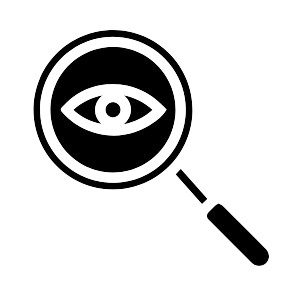
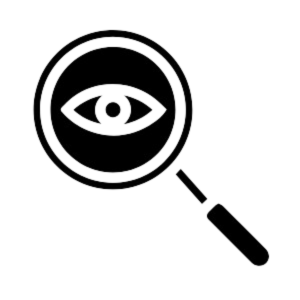
add changes

diff --git a/src/app/know-your-doctor/Knowdoctor.jsx b/src/app/know-your-doctor/Knowdoctor.jsx
@@ -14,7 +14,7 @@ const Knowdoctor = () => {
     <div className="">
       <div className="relative">
         <Image
-          src="/knowdoctor/about.jpg"
+          src="/knowdoctor/about.png"
           width={1000}
           height={1000}
           className="w-full h-[200px] object-cover"
